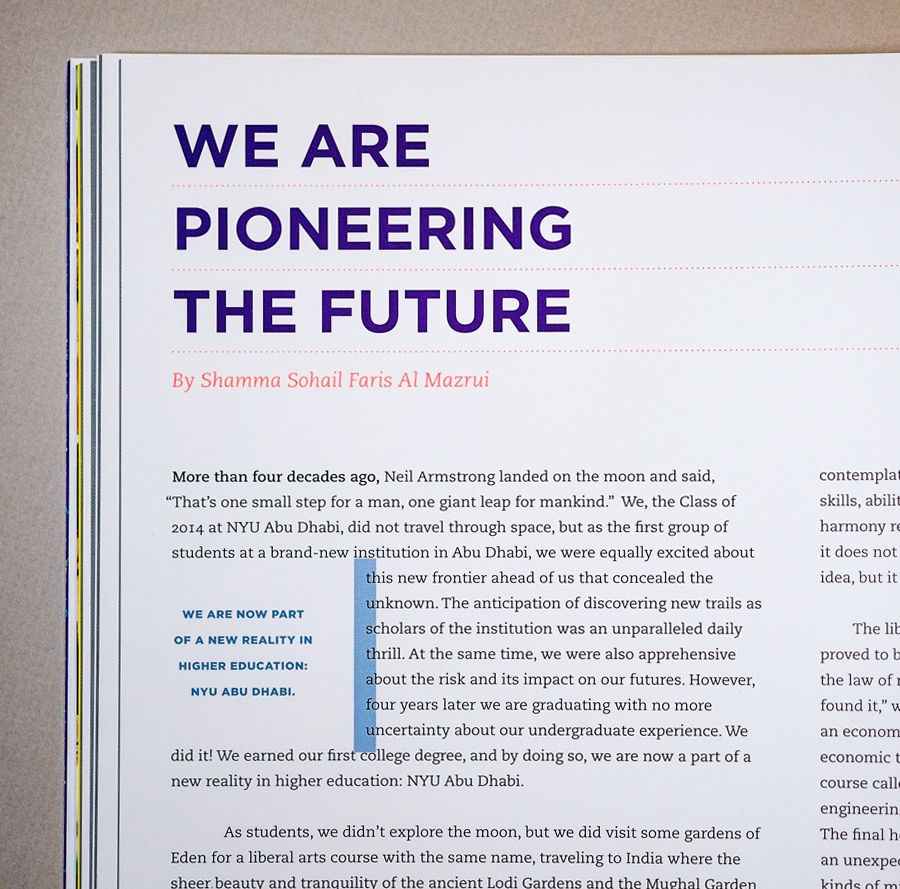
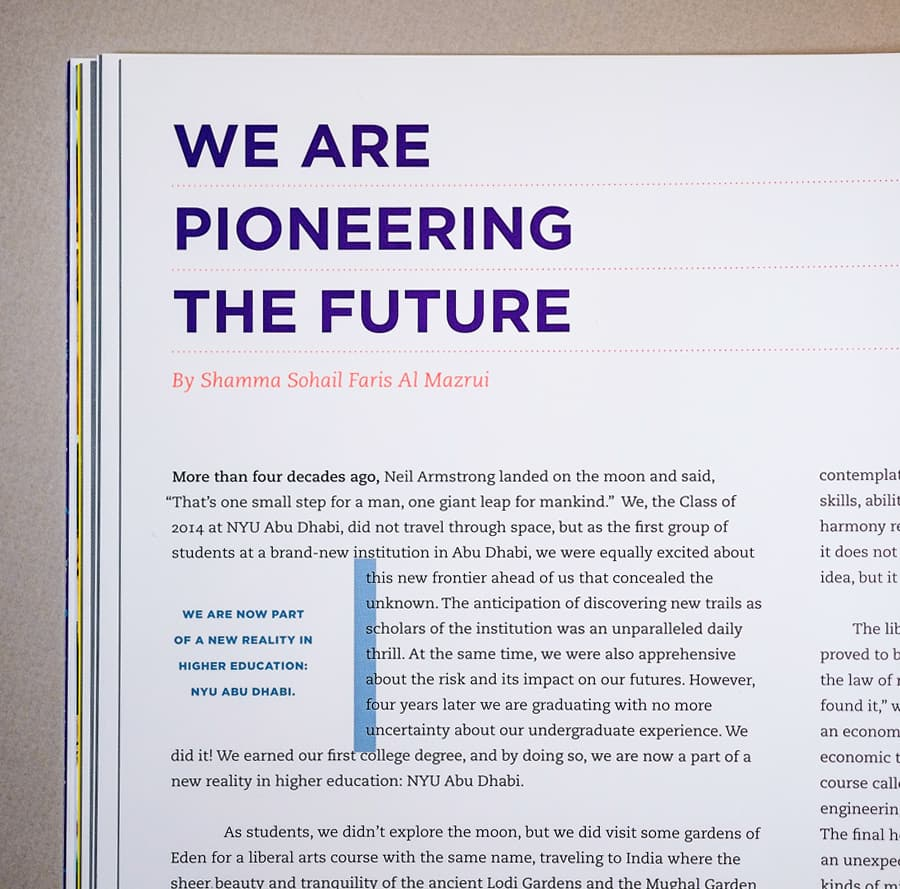
New images compressed+++

diff --git a/gulpfile.js b/gulpfile.js
@@ -1,20 +1,20 @@
-var gulp        = require('gulp');
-var harp        = require('harp')
+var gulp = require('gulp');
+var harp = require('harp')
 var browserSync = require('browser-sync');
-var reload      = browserSync.reload;
-var deploy      = require('gulp-gh-pages');
-var shell       = require('gulp-shell');
-var imagemin    = require('gulp-imagemin');
+var reload = browserSync.reload;
+var deploy = require('gulp-gh-pages');
+var shell = require('gulp-shell');
+var imagemin = require('gulp-imagemin');
 var jpegRecompress = require('imagemin-jpeg-recompress')
 
 
 /**
  * Serve the Harp Site
  */
-gulp.task('serve', function () {
+gulp.task('serve', function() {
   harp.server('public/', {
     port: 9000
-  }, function () {
+  }, function() {
     browserSync({
       proxy: "localhost:9000",
       open: false,
@@ -26,13 +26,15 @@ gulp.task('serve', function () {
     /**
      * Watch for sass changes, tell BrowserSync to refresh main.css
      */
-    gulp.watch("public/**/*.css", function () {
-      reload("main.css", {stream: true});
+    gulp.watch("public/**/*.css", function() {
+      reload("main.css", {
+        stream: true
+      });
     });
     /**
      * Watch for all other changes, reload the whole page
      */
-    gulp.watch(["public/**/*.ejs", "public/**/*.json", "public/**/*.md"], function () {
+    gulp.watch(["public/**/*.ejs", "public/**/*.json", "public/**/*.md"], function() {
       reload();
     });
   })
@@ -42,16 +44,18 @@ gulp.task('serve', function () {
  * Optimize images
  */
 
-gulp.task('images', function () {
+gulp.task('images', function() {
   gulp.src('images/*.jpg')
     .pipe(imagemin([
       jpegRecompress({
-        loops:4,
+        loops: 2,
         min: 50,
-        max: 95,
-        quality:'high'
+        max: 85,
+        progressive: true
       })
-    ]))
+    ], {
+      verbose: true
+    }))
     .pipe(gulp.dest('public/images/'))
 })
 
@@ -59,7 +63,7 @@ gulp.task('images', function () {
  * Serve the site in production
  */
 
-gulp.task('production', function () {
+gulp.task('production', function() {
   return gulp.src('')
     .pipe(shell([
       'NODE_ENV=production sudo harp server --port 80'
@@ -69,17 +73,17 @@ gulp.task('production', function () {
 /**
  * Build the Harp Site
  */
-gulp.task('build', function () {
-  return gulp.src('')
+gulp.task('build', function() {
+  return gulp.src('public/')
     .pipe(shell([
-      'harp compile . dist'
+      'harp compile public/ dist/'
     ]))
 });
 
 /**
  * Push build to gh-pages
  */
-gulp.task('deploy', ['build'], function () {
+gulp.task('deploy', ['build'], function() {
   return gulp.src("./dist/**/*")
     .pipe(deploy())
 });
